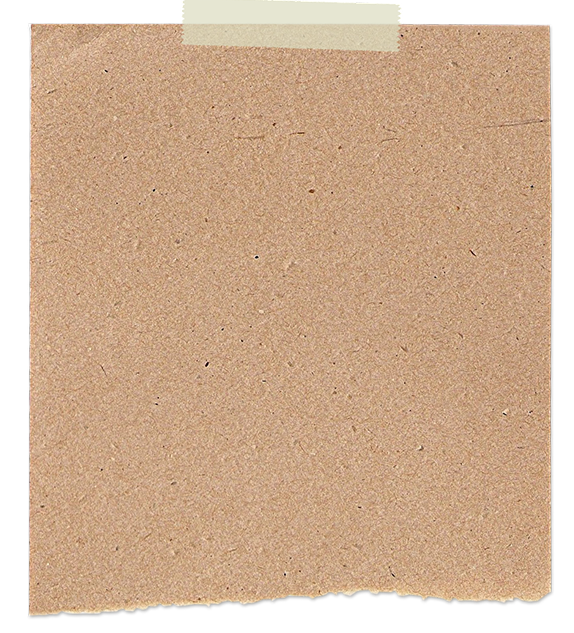
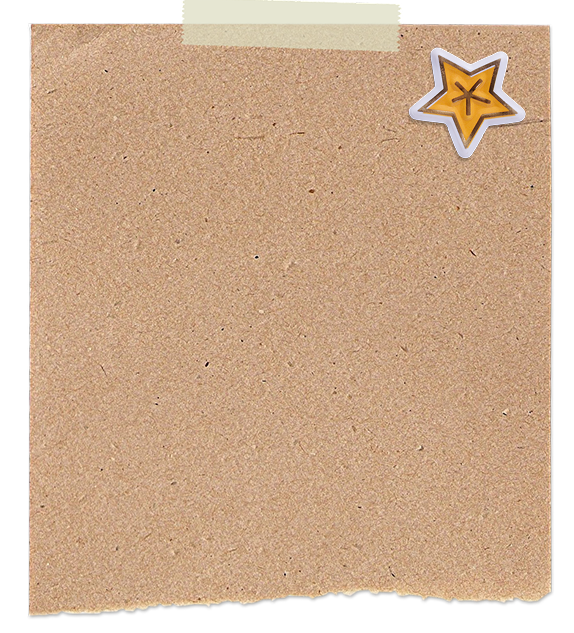
etiqueta nombre saludo perfil OK

Changed region(s): [[0.7108, 0.06, 0.9181, 0.2701]]

diff --git a/bookly/resources/css/app.css b/bookly/resources/css/app.css
@@ -183,8 +183,11 @@ body {
 
 /* Estilos para el corcho */
 .corcho-container {
+    margin-top: 5%;
+    width: 40%;
+    height: auto;
     background-image: url('/public/img/perfil/corcho.png');
-    background-size: 100% 100%;
+    background-size: contain;
     background-repeat: no-repeat;
     min-height: 80vh;
     position: relative;
@@ -197,6 +200,57 @@ body {
     flex-direction: column;
     justify-content: space-between;
 }
+
+/* Banner superior */
+.welcome-banner {
+    z-index: 10;
+    background-image: url('http://[::1]:5173/public/img/perfil/etiqueta.png');
+    background-size: contain;
+    background-repeat: no-repeat;
+    background-position: center;
+    width: 450px;
+    height: 250px;
+    margin-left: -45%;
+    margin-top: -50%;
+}
+
+/* Estilo polaroid */
+.polaroid-frame {
+    background-image: url('/public/img/perfil/polaroid.png');
+    background-size: contain;
+    background-repeat: no-repeat;
+    background-position: center;
+    width: 140%;
+    margin-left: -40%;
+    margin-top: -30%;
+}
+
+.polaroid-image {
+    width: 70%;
+    height: auto;
+    max-height: 60%;
+    object-fit: cover;
+}
+
+
+/* Estilo postits */
+.postits-container {
+    background-image: url('/public/img/perfil/logros.png');
+    background-size: contain;
+    background-repeat: no-repeat;
+    width: 130%;
+    height: 100%;
+}
+
+/* Estilo papel reto anual */
+.paper-note {
+    background-image: url('/public/img/perfil/papel.png');
+    background-size: cover;
+    width: 130%;
+    height: 1000px;
+    margin-top: -40%;
+}
+
 
 /* Estilos para la libreta */
 .notebook-container {
@@ -254,4 +308,11 @@ body {
     .notebook-container {
         background-size: cover;
     }
+}
+
+.reto_anual{
+    background-image: url('/public/img/perfil/papel.png');
+    background-size: contain;
+    background-repeat: no-repeat;
+    position: relative;
 }

diff --git a/bookly/resources/views/profile/show.blade.php b/bookly/resources/views/profile/show.blade.php
@@ -1,42 +1,59 @@
 @extends('layouts.app')
 @section('content')
 <div class="container-fluid">
-    <div class="row g-0"> 
+    <div class="row g-0">
         <!-- Columna Corcho -->
-        <div class="col-md-6 corcho-container">
-            <div class="corcho-content"> <!-- Contenedor para elementos dentro del corcho -->
-                <!-- Foto de perfil -->
-                <div class="profile-section">
-                    <div class="flex-shrink-0">
-                        <!-- <img src="{{ Storage::url($user->imgPerfil) }}?v={{ time() }}"> -->
+        <!-- Columna Corcho -->
+        <div class="col-md-6 corcho-container position-relative"> <!-- Añadido position-relative -->
+            <!-- Div superpuesto en borde superior -->
+            <div class="welcome-banner d-flex flex-column align-items-center justify-content-center">
+                <div style="margin-left: 25%; margin-top: -7%; transform: rotate(-9deg);"> <h2 class="m-0">¡Hola, <br>{{ Auth::user()->name }}!</h2></div>
+            </div>
+
+            <div class="corcho-content h-100 d-flex flex-column pt-5"> <!-- Añadido pt-5 para espacio del banner -->
+                <!-- Primera fila (dividida en 2 columnas) -->
+                <div class="row g-0 mb-3 flex-grow-1">
+                    <!-- Columna izquierda - Polaroid con foto -->
+                    <div class="col-md-6 h-100 pe-2">
+                        <div class="polaroid-frame h-100 d-flex flex-column align-items-center justify-content-center p-4">
+                            <img src="{{ Auth::user()->imgPerfil ? Storage::url(Auth::user()->imgPerfil) : '/img/default-profile.png' }}"
+                                class="polaroid-image"
+                                alt="Foto de perfil">
+                            <div class="polaroid-caption mt-2">Mi perfil</div>
+                        </div>
                     </div>
-                    <div>
-                        <h1 class="text-xl">
-                            Hola, {{ Auth::user()->name }}
-                        </h1>
+
+                    <!-- Columna derecha - Postits con logros -->
+                    <div class="col-md-6 h-100 ps-2">
+                        <div class="postits-container h-100 position-relative p-3">
+                            <div class="postit-large">
+                                <h3>Mis Logros</h3>
+                                <ul class="achievements-list">
+                                    <li>🥇 Primer libro leído</li>
+                                    <li>📚 10 libros completados</li>
+                                </ul>
+                            </div>
+                        </div>
                     </div>
                 </div>
 
-                <div class="logros-section">
-                    <h2>Mis logros</h2>
-                    <a href="{{ route('logros.index') }}">
-                </div>
+                <!-- Segunda fila - Papel con reto anual -->
+                <div class="row g-0 flex-grow-1">
+                    <div class="col-12 h-100">
+                        <div class="paper-note h-100 p-4 d-flex flex-column">
+                            <h3 class="text-center mb-3">Reto Anual</h3>
+                            <div class="progress-container mx-auto">
+                                <div class="progress-text text-center mb-2">
+                                    {{ auth()->user()->librosLeidosEsteAnio() }} de {{ auth()->user()->retoAnual }} libros leídos
+                                </div>
 
-                <a href="{{ route('logros.index') }}">Logros</a>
-                <!-- Reto anual -->
-                <div class="challenge-section">
-                    <h2>Reto de Lectura</h2>
-                    <div>
-                        <div class="flex justify-between mb-2">
-                            <span>
-                                {{ auth()->user()->librosLeidosEsteAnio() }} de {{ auth()->user()->retoAnual}} libros
-                            </span>
+                            </div>
                         </div>
                     </div>
                 </div>
             </div>
         </div>
-        
+
         <!-- Columna Libreta -->
         <div class="col-md-6 notebook-container">
             <div class="notebook-content"> <!-- Contenedor para elementos dentro de la libreta -->
